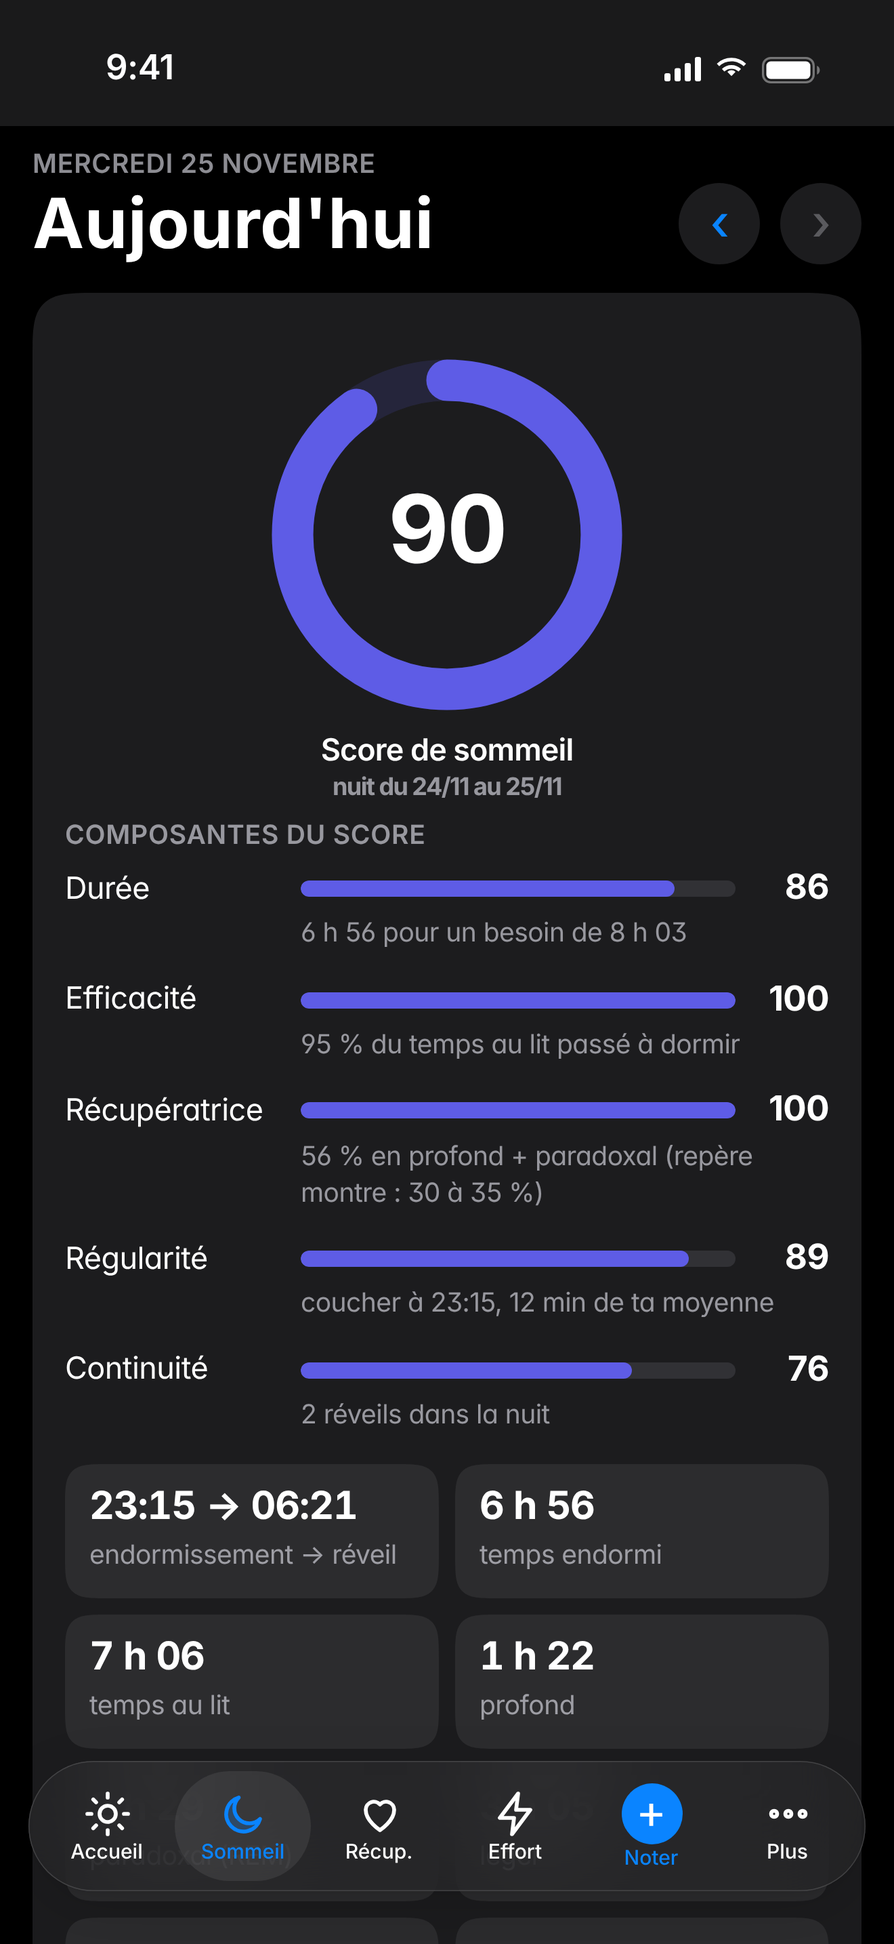
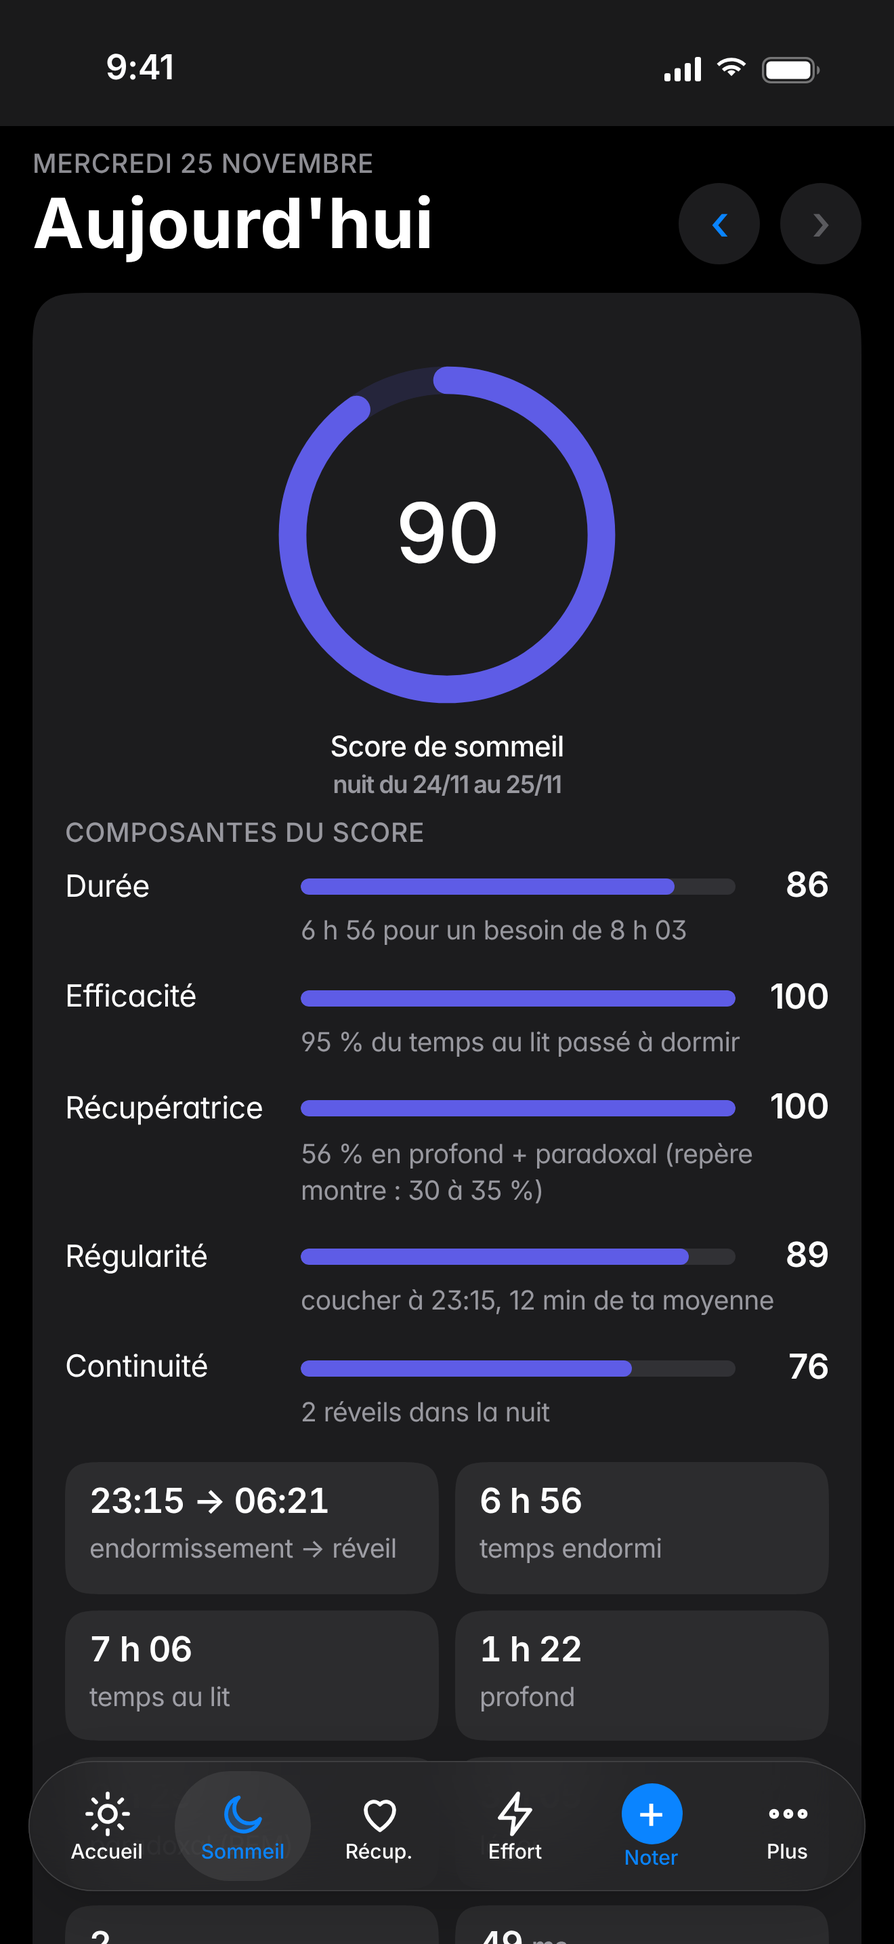
Typographie et anneaux plus fins, police d'Apple
- gras réservé aux grands titres (34 pt), comme sur iOS ; le reste en semi-gras ou medium
- chiffres un cran plus petits et plus légers, anneaux affinés (épaisseur 15 → 10)
- SF Pro sur les appareils Apple ; ailleurs Inter avec taille optique (s'affine dans les titres, comme SF Pro Display)
- captures App Store régénérées

Claude-Session: https://claude.ai/code/session_015H5AcnZF4Qe2vCaE56TQbC

diff --git a/src/styles.css b/src/styles.css
@@ -69,11 +69,11 @@ button,a,.gauge,.hr,.qa,.chip,.tabs a{-webkit-tap-highlight-color:transparent;to
 :is(input,select,textarea,button,summary,a):focus-visible{outline:3px solid color-mix(in srgb,var(--tint) 50%,transparent);outline-offset:2px}
 
 /* titres (échelle typographique d'iOS) */
-h1{font:700 22px/1.15 var(--font);margin:0;letter-spacing:-.01em}
-h2{font:700 21px/1.25 var(--font);margin:0 0 12px;letter-spacing:-.015em}
+h1{font:600 22px/1.15 var(--font);margin:0;letter-spacing:-.01em}
+h2{font:600 20px/1.25 var(--font);margin:0 0 12px;letter-spacing:-.015em}
 h3{font:600 17px/1.3 var(--font);margin:18px 0 8px;letter-spacing:-.02em}
 .ph{display:flex;justify-content:space-between;align-items:baseline;gap:4px 10px;flex-wrap:wrap}.ph h2{margin-bottom:8px}
-.eyebrow{font-size:13px;font-weight:600;color:var(--mute);text-transform:uppercase;letter-spacing:.02em}
+.eyebrow{font-size:13px;font-weight:500;color:var(--mute);text-transform:uppercase;letter-spacing:.02em}
 
 /* ---------- en-tête, marque ---------- */
 .tt{display:flex;align-items:center;justify-content:space-between;gap:10px;padding-top:14px}
@@ -96,7 +96,7 @@ main .wrap{padding-top:10px;padding-bottom:40px}
 .daynav{display:grid;grid-template-columns:minmax(0,1fr) auto auto;align-items:end;gap:10px;margin:8px 0 18px;position:sticky;top:var(--hh,112px);z-index:5;background:var(--bg);padding:8px 0}
 .daynav>div{order:-1;display:flex;flex-direction:column-reverse}
 .daynav h2{margin:0;font:700 34px/1.12 var(--font);letter-spacing:.006em}.daynav h2::first-letter{text-transform:uppercase}
-.daynav p{margin:0 0 2px;font-size:13px;font-weight:600;color:var(--mute);text-transform:uppercase;letter-spacing:.02em}
+.daynav p{margin:0 0 2px;font-size:13px;font-weight:500;color:var(--mute);text-transform:uppercase;letter-spacing:.02em}
 .daynav .btn.icon{width:40px;min-height:40px;border-radius:50%;background:var(--panel);color:var(--tint);font-size:24px;font-weight:500;box-shadow:0 1px 2px rgba(0,0,0,.06)}
 .daynav .btn.icon:disabled{color:var(--mute2);opacity:1}
 
@@ -145,9 +145,9 @@ label.filebtn:focus-within{outline:3px solid color-mix(in srgb,var(--tint) 50%,t
 .chip span{color:var(--mute);font-size:13px}.chip.on{background:var(--tint);color:#fff}.chip.on span{color:inherit;opacity:.75}
 .seg{display:inline-flex;background:var(--field);border-radius:99px;padding:2px;margin-bottom:14px;flex-wrap:wrap;gap:0}
 .seg button{border:0;background:none;font:500 14px var(--font);letter-spacing:-.01em;color:var(--ink);padding:6px 16px;border-radius:99px;min-height:32px;cursor:pointer;transition:background .2s}
-.seg button.on{background:var(--thumb);font-weight:600;box-shadow:0 3px 8px rgba(0,0,0,.12),0 3px 1px rgba(0,0,0,.04)}
-.tag{display:inline-block;font-size:12px;padding:1px 8px;border-radius:99px;background:var(--field);margin-right:6px;color:var(--mute);font-weight:600}
-.st{display:inline-block;font-size:12px;font-weight:600;padding:3px 10px;border-radius:99px;background:color-mix(in srgb,var(--c) 15%,transparent);color:var(--c);white-space:nowrap}
+.seg button.on{background:var(--thumb);font-weight:500;box-shadow:0 3px 8px rgba(0,0,0,.12),0 3px 1px rgba(0,0,0,.04)}
+.tag{display:inline-block;font-size:12px;padding:1px 8px;border-radius:99px;background:var(--field);margin-right:6px;color:var(--mute);font-weight:500}
+.st{display:inline-block;font-size:12px;font-weight:500;padding:3px 10px;border-radius:99px;background:color-mix(in srgb,var(--c) 15%,transparent);color:var(--c);white-space:nowrap}
 .pr{display:inline-block;background:var(--str);color:#000;padding:1px 8px;border-radius:99px;font-weight:600;margin-left:6px;font-size:12px}
 
 /* ---------- anneaux du jour (comme les anneaux d'Activité) ---------- */
@@ -155,36 +155,36 @@ label.filebtn:focus-within{outline:3px solid color-mix(in srgb,var(--tint) 50%,t
 .gauge{display:grid;justify-items:center;gap:3px;background:none;border:0;color:inherit;font:inherit;cursor:pointer;padding:6px 4px;border-radius:var(--r-in);transition:background .15s}
 @media(hover:hover){.gauge:hover{background:var(--panel2)}}
 .gauge svg{width:min(100%,168px);height:auto}
-.gauge svg circle{stroke-width:15}
-.gauge .gv{font:700 36px/1 var(--round);fill:var(--ink);letter-spacing:-.02em;font-variant-numeric:tabular-nums}
-.gauge .gu{font:600 13px var(--round);fill:var(--mute)}
-.gauge b{font-size:16px;font-weight:600;letter-spacing:-.02em}.gauge span{font-size:13px;color:var(--mute);line-height:1.3}
+.gauge svg circle{stroke-width:10}
+.gauge .gv{font:500 32px/1 var(--round);fill:var(--ink);letter-spacing:-.02em;font-variant-numeric:tabular-nums}
+.gauge .gu{font:500 12px var(--round);fill:var(--mute)}
+.gauge b{font-size:15px;font-weight:500;letter-spacing:-.02em}.gauge span{font-size:13px;color:var(--mute);line-height:1.3}
 .gauge.big svg{width:min(100%,210px)}
 .coach{margin:16px 0 0;padding:14px 16px;border-radius:var(--r-in);background:var(--panel2);font-size:16px;line-height:1.45}
-.coach b{font-weight:600}
+.coach b{font-weight:500}
 
 /* ---------- tuiles (cartes de Santé) ---------- */
 .tiles{display:grid;grid-template-columns:repeat(auto-fill,minmax(min(100%,160px),1fr));gap:12px;margin-bottom:16px}
 .tile{background:var(--panel);border-radius:var(--r-card);padding:14px 16px;display:grid;gap:2px;align-content:start}
-.tile .k{font-size:15px;font-weight:600;color:light-dark(color-mix(in srgb,var(--c) 72%,#000),var(--c));display:flex;align-items:center;gap:6px;letter-spacing:-.02em;margin-bottom:4px}
+.tile .k{font-size:14px;font-weight:500;color:light-dark(color-mix(in srgb,var(--c) 72%,#000),var(--c));display:flex;align-items:center;gap:6px;letter-spacing:-.02em;margin-bottom:4px}
 .tile .k i{width:9px;height:9px;border-radius:50%;background:var(--c);flex:none}
-.tile .v{font:700 30px/1.1 var(--round);letter-spacing:-.02em;font-variant-numeric:tabular-nums}
-.tile .v small{font:600 15px var(--round);color:var(--mute);letter-spacing:0}
+.tile .v{font:600 26px/1.1 var(--round);letter-spacing:-.02em;font-variant-numeric:tabular-nums}
+.tile .v small{font:500 14px var(--round);color:var(--mute);letter-spacing:0}
 .tile .s{font-size:13px;color:var(--mute)}
 .tile .row{margin-top:8px}.tile .btn.small{min-height:32px;padding:4px 12px;font-size:14px}
 
 /* ---------- composantes, statistiques, chiffres ---------- */
 .comp{display:grid;gap:12px;margin-top:6px}
 .cr{display:grid;grid-template-columns:120px minmax(0,1fr) 44px;gap:12px;align-items:center;font-size:15px}
-.cr .bar{margin:0}.cr .num{font:700 17px var(--round)}
+.cr .bar{margin:0}.cr .num{font:600 17px var(--round)}
 .cr small{grid-column:2/-1;margin-top:-8px;color:var(--mute);font-size:13px}
 .stats{display:grid;grid-template-columns:repeat(auto-fill,minmax(min(100%,150px),1fr));gap:10px;margin-top:14px}
 .stat{background:var(--panel2);border-radius:var(--r-in);padding:11px 14px}
-.stat b{display:block;font:700 22px/1.2 var(--round);letter-spacing:-.02em;font-variant-numeric:tabular-nums}
-.stat b small{font-size:13px;font-weight:600;color:var(--mute)}.stat span{font-size:13px;color:var(--mute)}
+.stat b{display:block;font:600 19px/1.25 var(--round);letter-spacing:-.02em;font-variant-numeric:tabular-nums}
+.stat b small{font-size:13px;font-weight:500;color:var(--mute)}.stat span{font-size:13px;color:var(--mute)}
 .kpis{display:flex;gap:12px 28px;flex-wrap:wrap;margin:4px 0 14px}
-.kpis div{display:grid}.kpis b{font:700 28px/1.15 var(--round);letter-spacing:-.02em;font-variant-numeric:tabular-nums}.kpis span{font-size:13px;color:var(--mute)}
-.big{font:700 clamp(26px,4vw,34px)/1 var(--round);white-space:nowrap;letter-spacing:-.02em}.big small{font:600 15px var(--round);color:var(--mute)}
+.kpis div{display:grid}.kpis b{font:600 24px/1.15 var(--round);letter-spacing:-.02em;font-variant-numeric:tabular-nums}.kpis span{font-size:13px;color:var(--mute)}
+.big{font:600 clamp(24px,3.6vw,30px)/1 var(--round);white-space:nowrap;letter-spacing:-.02em}.big small{font:500 14px var(--round);color:var(--mute)}
 
 /* ---------- barres ---------- */
 .bar{position:relative;height:8px;background:var(--field);border-radius:99px;overflow:hidden;margin:8px 0 6px}
@@ -205,21 +205,21 @@ label.filebtn:focus-within{outline:3px solid color-mix(in srgb,var(--tint) 50%,t
 .ins{list-style:none;margin:0;padding:0;display:grid;gap:10px}
 .ins li{display:grid;grid-template-columns:4px minmax(0,1fr);gap:14px;padding:12px 14px;border-radius:var(--r-in);background:var(--panel2)}
 .ins li::before{content:'';border-radius:2px;background:var(--c)}
-.ins b{font-weight:600}.ins span{display:block;font-size:14px;color:var(--mute);margin-top:2px}
+.ins b{font-weight:500}.ins span{display:block;font-size:14px;color:var(--mute);margin-top:2px}
 .act{display:grid;grid-template-columns:40px minmax(0,1fr) auto;gap:12px;align-items:center;padding:11px 0;border-top:.5px solid var(--line)}
 .act:first-child{border-top:0}
 .act .ic{width:40px;height:40px;border-radius:50%;background:color-mix(in srgb,var(--c) 18%,transparent);display:grid;place-items:center}
 .act .ic svg{width:21px;height:21px;stroke:var(--c);fill:none;stroke-width:2.2;stroke-linecap:round;stroke-linejoin:round}
-.act .t{font-weight:600}.act .m{font-size:14px;color:var(--mute)}
-.act .e{font:700 20px var(--round);color:var(--eff);text-align:right}.act .e small{display:block;font:600 11px var(--font);color:var(--mute)}
+.act .t{font-weight:500}.act .m{font-size:14px;color:var(--mute)}
+.act .e{font:600 20px var(--round);color:var(--eff);text-align:right}.act .e small{display:block;font:600 11px var(--font);color:var(--mute)}
 .flist{list-style:none;margin:10px 0 0;padding:0}
 .flist li{display:grid;grid-template-columns:minmax(0,1fr) auto auto 44px;gap:12px;align-items:center;border-top:.5px solid var(--line);padding:6px 0 6px 2px;min-height:48px}
 .flist li:first-child{border-top:0}
 .med li{grid-template-columns:70px minmax(0,1fr) 44px}
 .ml{font-size:13px;color:var(--mute);display:block}
-.mealh{font:600 13px var(--font);color:var(--mute);margin:16px 0 2px;display:flex;justify-content:space-between;text-transform:uppercase;letter-spacing:.02em}
+.mealh{font:500 13px var(--font);color:var(--mute);margin:16px 0 2px;display:flex;justify-content:space-between;text-transform:uppercase;letter-spacing:.02em}
 table{width:100%;border-collapse:collapse;font-size:15px;margin-top:10px}
-th,td{padding:9px 6px;border-top:.5px solid var(--line);text-align:left}th{font-weight:600;color:var(--mute);font-size:13px}
+th,td{padding:9px 6px;border-top:.5px solid var(--line);text-align:left}th{font-weight:500;color:var(--mute);font-size:13px}
 td.num,th.num{text-align:right}
 .hvl{margin:10px 0}.hvl summary{cursor:pointer;font-weight:600;padding:8px 0;color:var(--tint)}.hvl tr.insl td{background:color-mix(in srgb,var(--slp) 10%,transparent)}
 .lg{display:flex;gap:6px 14px;flex-wrap:wrap;font-size:13px;color:var(--mute);margin-top:10px}
@@ -227,39 +227,39 @@ td.num,th.num{text-align:right}
 
 /* ---------- moniteur de santé, bilan ---------- */
 .mon{display:grid;gap:16px}.mr{display:grid;grid-template-columns:170px minmax(0,1fr) 130px;gap:16px;align-items:center}
-.mr .n{font-weight:600;font-size:15px}.mr .n small{display:block;font-size:13px;color:var(--mute);font-weight:400}
-.mr .v{text-align:right;font:700 17px var(--round)}.mr .v small{display:block;font:400 13px var(--font)}
+.mr .n{font-weight:500;font-size:15px}.mr .n small{display:block;font-size:13px;color:var(--mute);font-weight:400}
+.mr .v{text-align:right;font:600 17px var(--round)}.mr .v small{display:block;font:400 13px var(--font)}
 .mm{display:flex;align-items:center;gap:14px;flex-wrap:wrap;cursor:pointer}.mm .dots{display:flex;gap:6px}.mm .dots i{width:12px;height:12px;border-radius:50%;background:var(--c)}
-.mm b{font-weight:600}
+.mm b{font-weight:500}
 .mkrs{display:grid;grid-template-columns:repeat(auto-fill,minmax(min(100%,300px),1fr));gap:12px}
 .mkr{background:var(--panel2);border-radius:var(--r-in);padding:14px 16px;display:grid;gap:4px;align-content:start}
-.mkr .t2{display:flex;justify-content:space-between;align-items:center;gap:8px}.mkr .t2 span{font-size:14px;font-weight:600;color:var(--mute)}
-.mkr b{font:700 24px/1.2 var(--round);letter-spacing:-.02em}.mkr p{margin:0;font-size:14px;color:var(--mute)}
+.mkr .t2{display:flex;justify-content:space-between;align-items:center;gap:8px}.mkr .t2 span{font-size:14px;font-weight:500;color:var(--mute)}
+.mkr b{font:600 21px/1.2 var(--round);letter-spacing:-.02em}.mkr p{margin:0;font-size:14px;color:var(--mute)}
 .meters{display:grid;grid-template-columns:repeat(3,minmax(0,1fr));gap:20px;margin-bottom:12px}
 .mh{display:flex;justify-content:space-between;align-items:baseline;gap:8px;flex-wrap:wrap}
 .addrow{display:grid;grid-template-columns:minmax(0,1.6fr) repeat(4,minmax(0,.8fr)) minmax(0,1fr) auto;gap:8px;align-items:end}
 #hday:empty{display:none}#hday{margin:0 0 12px;font-size:15px;color:var(--mute)}
 .ci{display:grid;grid-template-columns:repeat(2,minmax(0,1fr));gap:14px 22px}
-.sc{display:grid;gap:6px}.sc>span{font-size:15px;font-weight:600}
+.sc{display:grid;gap:6px}.sc>span{font-size:15px;font-weight:500}
 .sc .seg{margin:0;display:grid;grid-template-columns:repeat(5,minmax(0,1fr))}.sc .seg button{padding:6px 0}
 .sc small{display:flex;justify-content:space-between;color:var(--mute);font-size:13px}
 
 /* ---------- séance de muscu ---------- */
 .edh{display:grid;grid-template-columns:minmax(0,1fr) 170px 150px;gap:10px}
-.tin{font:700 22px var(--font);background:none;padding-left:4px;letter-spacing:-.02em}.tin:focus{background:var(--field)}
+.tin{font:600 22px var(--font);background:none;padding-left:4px;letter-spacing:-.02em}.tin:focus{background:var(--field)}
 #svst{margin:4px 0 0 4px}
 .ex{border-top:.5px solid var(--line);padding:16px 0 12px}
 .exh{display:flex;gap:8px;align-items:center}.exn{font:600 17px var(--font)}
-.hint{font-size:15px;color:var(--mute);margin:8px 0 10px;min-height:1.5em}.hint b{color:var(--ink);font-weight:600}.up{color:var(--ok);font-weight:600}
+.hint{font-size:15px;color:var(--mute);margin:8px 0 10px;min-height:1.5em}.hint b{color:var(--ink);font-weight:500}.up{color:var(--ok);font-weight:600}
 .sets{display:grid;gap:6px;margin-bottom:8px}
 .set{display:grid;grid-template-columns:30px minmax(0,1fr) minmax(0,1fr) 44px;gap:8px;align-items:center}
 .set.hd{font-size:13px;color:var(--mute);font-weight:400}
-.set>span{font:700 16px var(--round);color:var(--mute);text-align:center}
+.set>span{font:600 16px var(--round);color:var(--mute);text-align:center}
 .set input{font:600 19px var(--round);text-align:center;font-variant-numeric:tabular-nums}
 .foot{display:flex;gap:10px;flex-wrap:wrap;margin-top:18px}
 /* minuteur de repos : façon Activité en direct */
 #timer{position:absolute;left:50%;top:8px;transform:translateX(-50%);z-index:8;background:#000;color:#fff;border-radius:99px;padding:7px 7px 7px 20px;display:flex;gap:10px;align-items:center;box-shadow:0 10px 30px rgba(0,0,0,.3)}
-#timer[hidden]{display:none}#timer b{font:700 26px/1 var(--round);font-variant-numeric:tabular-nums;min-width:66px;color:var(--eff)}
+#timer[hidden]{display:none}#timer b{font:600 26px/1 var(--round);font-variant-numeric:tabular-nums;min-width:66px;color:var(--eff)}
 #timer .small{color:rgba(255,255,255,.7)}
 #timer button{background:rgba(255,255,255,.16);border:0;color:#fff;border-radius:99px;min-height:36px;padding:4px 14px;font:600 14px var(--font);cursor:pointer}
 #timer.end b{color:var(--rec)}
@@ -268,8 +268,8 @@ td.num,th.num{text-align:right}
 .je:first-child{border-top:0}
 .je summary{display:grid;grid-template-columns:52px 10px minmax(0,1fr) auto;gap:12px;align-items:center;padding:12px 4px;cursor:pointer;list-style:none;min-height:50px}
 .je summary::-webkit-details-marker{display:none}
-.je .dt{font:700 15px var(--round)}.je .dot{width:10px;height:10px;border-radius:50%;background:var(--c)}
-.je .tl{font-weight:600;overflow:hidden;text-overflow:ellipsis;white-space:nowrap}.je .mt{font-size:14px;color:var(--mute);text-align:right}
+.je .dt{font:600 15px var(--round)}.je .dot{width:10px;height:10px;border-radius:50%;background:var(--c)}
+.je .tl{font-weight:500;overflow:hidden;text-overflow:ellipsis;white-space:nowrap}.je .mt{font-size:14px;color:var(--mute);text-align:right}
 .jb{padding:0 4px 14px 78px}.hx{display:grid;gap:2px;padding:4px 0;font-size:15px}.hx span{color:var(--mute)}
 .hm{display:grid;grid-template-rows:repeat(7,1fr);grid-auto-flow:column;grid-auto-columns:minmax(0,1fr);gap:3px}
 .c{aspect-ratio:1;border-radius:4px;background:var(--field)}
@@ -278,7 +278,7 @@ td.num,th.num{text-align:right}
 /* ---------- graphiques ---------- */
 .fig{position:relative;min-height:250px;touch-action:pan-y}.fig.sm{min-height:180px}.fig.day{min-height:190px}.fig.hyp{min-height:330px}.fig.nodata{min-height:64px}
 .fig>svg{position:absolute;inset:0;width:100%;height:100%;overflow:visible}
-.fig text{font:500 11px var(--font);fill:var(--mute);font-variant-numeric:tabular-nums}.fig .lab{font:700 13px var(--round);fill:var(--ink)}
+.fig text{font:500 11px var(--font);fill:var(--mute);font-variant-numeric:tabular-nums}.fig .lab{font:600 13px var(--round);fill:var(--ink)}
 .ov{position:absolute;inset:0;pointer-events:none;z-index:2}
 .ov .tip,#tip{position:absolute;pointer-events:none;background:var(--glass);-webkit-backdrop-filter:blur(20px) saturate(1.8);backdrop-filter:blur(20px) saturate(1.8);color:var(--ink);border-radius:14px;padding:8px 12px;font:400 13px/1.5 var(--font);white-space:nowrap;box-shadow:0 8px 24px rgba(0,0,0,.16),inset 0 0 0 .5px var(--glass-edge);z-index:4}
 .ov .tip b,#tip b{font-weight:600}.ov .tip .d{color:var(--mute)}.ov .tip i.sw{display:inline-block;width:8px;height:8px;border-radius:50%;margin-right:6px}
@@ -310,7 +310,7 @@ td.num,th.num{text-align:right}
 #sheet{background:var(--bg);padding:0 0 10px}
 #sheet .sh{background:var(--panel);width:min(100% - 24px,620px);margin:0 auto;border-radius:var(--r-card);box-shadow:0 10px 30px rgba(0,0,0,.14);padding:14px;position:relative;display:grid;grid-template-columns:repeat(3,minmax(0,1fr));gap:10px}
 #sheet .shx{position:absolute;right:12px;top:12px}
-#sheet h3{grid-column:1/-1;margin:4px 0 6px 4px;font-size:20px;font-weight:700}
+#sheet h3{grid-column:1/-1;margin:4px 0 6px 4px;font-size:20px;font-weight:600}
 .qa{display:grid;justify-items:center;align-content:center;gap:8px;padding:14px 6px;border-radius:var(--r-in);background:var(--panel2);border:0;color:var(--ink);font:500 14px/1.2 var(--font);letter-spacing:-.01em;cursor:pointer;min-height:96px;text-align:center;transition:transform .12s}
 .qa:active{transform:scale(.96)}
 .qa i{width:44px;height:44px;border-radius:50%;background:var(--c);display:grid;place-items:center}
@@ -362,17 +362,17 @@ td.num,th.num{text-align:right}
  .daynav h2{font-size:34px}
  .panel{padding:16px;margin-bottom:14px}
  h2{font-size:20px}h3{font-size:17px}
- .gauges{gap:2px}.gauge{padding:4px 0}.gauge b{font-size:15px}.gauge span{font-size:12px}.gauge .gv{font-size:34px}
+ .gauges{gap:2px}.gauge{padding:4px 0}.gauge b{font-size:14px}.gauge span{font-size:12px}.gauge .gv{font-size:30px}
  .gauge.big svg{width:min(100%,190px)}
- .tiles{grid-template-columns:repeat(2,minmax(0,1fr));gap:12px;margin-bottom:14px}.tile{padding:13px 14px}.tile .v{font-size:26px}.tile .k{font-size:14px}
+ .tiles{grid-template-columns:repeat(2,minmax(0,1fr));gap:12px;margin-bottom:14px}.tile{padding:13px 14px}.tile .v{font-size:23px}.tile .k{font-size:13px}
  .seg{flex-wrap:nowrap;overflow-x:auto;max-width:100%;scrollbar-width:none;margin-bottom:12px}.seg::-webkit-scrollbar{display:none}.seg button{flex:none;padding:6px 14px}
  #slpr{margin-left:0!important}
  .fig{min-height:220px}.fig.sm{min-height:170px}.fig.hyp{min-height:300px}.fig.day{min-height:170px}
- .stats{grid-template-columns:repeat(2,minmax(0,1fr));gap:8px}.stat{padding:10px 12px}.stat b{font-size:19px}
- .kpis{gap:10px 22px}.kpis b{font-size:24px}.two{gap:0}
+ .stats{grid-template-columns:repeat(2,minmax(0,1fr));gap:8px}.stat{padding:10px 12px}.stat b{font-size:17px}
+ .kpis{gap:10px 22px}.kpis b{font-size:21px}.two{gap:0}
  .panel>p.mute.small{display:-webkit-box;-webkit-line-clamp:2;-webkit-box-orient:vertical;overflow:hidden;cursor:pointer;font-size:14px}
  .panel>p.mute.small.open{display:block}
- .coach{font-size:16px}#fsk{grid-template-columns:minmax(0,1fr)}
+ .coach{font-size:15px}#fsk{grid-template-columns:minmax(0,1fr)}
  #week thead{display:none}#week table,#week tbody{display:block}#week tr{display:grid;grid-template-columns:repeat(3,minmax(0,1fr));padding:8px 0;border-top:.5px solid var(--line)}
  #week td{border:0;padding:2px 4px;text-align:left!important}#week td:first-child{grid-column:1/-1;font-weight:600}#week td[data-l]::before{content:attr(data-l);display:block;font-size:12px;color:var(--mute)}
  .act{grid-template-columns:38px minmax(0,1fr) auto;gap:10px}.act .ic{width:38px;height:38px}
@@ -435,7 +435,7 @@ td.num,th.num{text-align:right}
 .ob-list li{display:grid;grid-template-columns:48px minmax(0,1fr);gap:16px;align-items:center}
 .ob-list i{width:48px;height:48px;display:grid;place-items:center}
 .ob-list svg{width:36px;height:36px;stroke:var(--c);fill:color-mix(in srgb,var(--c) 18%,transparent);stroke-width:1.8;stroke-linecap:round;stroke-linejoin:round}
-.ob-list span{color:var(--mute);font-size:15px;line-height:1.35}.ob-list b{display:block;color:var(--ink);font-size:17px;font-weight:600;letter-spacing:-.02em}
+.ob-list span{color:var(--mute);font-size:15px;line-height:1.35}.ob-list b{display:block;color:var(--ink);font-size:17px;font-weight:500;letter-spacing:-.02em}
 .ob-form{display:grid;gap:14px;background:var(--panel);border-radius:var(--r-card);padding:18px}
 .ob-cta{margin-top:auto;width:100%;min-height:52px;font-size:17px}
 .ob .btn.ghost{width:100%;font-weight:400}
@@ -451,7 +451,7 @@ td.num,th.num{text-align:right}
 /* ---------- bandeaux : démo, synchronisation ---------- */
 #demobar{display:flex;align-items:center;justify-content:space-between;gap:10px;background:color-mix(in srgb,var(--slp) 13%,var(--panel));border-radius:99px;padding:6px 6px 6px 18px;margin:4px 0 10px;font-size:15px}
 #demobar[hidden]{display:none}
-#demobar b{font-weight:600;color:var(--slp)}
+#demobar b{font-weight:500;color:var(--slp)}
 #demobar .btn{background:var(--panel);min-height:34px}
 #syncbar{background:var(--panel);border-radius:var(--r-in);padding:12px 16px;margin:4px 0 10px;font-size:15px;font-weight:500}
 #syncbar[hidden]{display:none}

diff --git a/src/main.js b/src/main.js
@@ -1,7 +1,7 @@
 /* Carnet de santé : logique de l'application (état, moteur d'interprétation, vues, import, événements). */
 // Police : SF Pro (police système) sur les appareils Apple ; ailleurs Inter, intégrée à l'appli
 // (aucun appel à un service de polices). Chargée seulement si SF Pro est absent.
-import '@fontsource-variable/inter/wght.css';
+import '@fontsource-variable/inter/opsz.css'; // graisse + taille optique (comme SF Pro Text / Display)
 import {$,$$,esc,clone,iso,today,addD,dShort,dLong,dWk,num,has,fx,f2,r0,sg,clamp,nid,norm,plain,e1,sortDesc,setTxt,fmtSl,hhmm,hm,avg,sdv} from './utils.js';
 import {BASE_EX,SPORTS,MEALS,WT,MG,SCALES,MEAS,ZC,ZN,IC,DEF} from './constants.js';
 import {readHealth} from './health-import.js';
